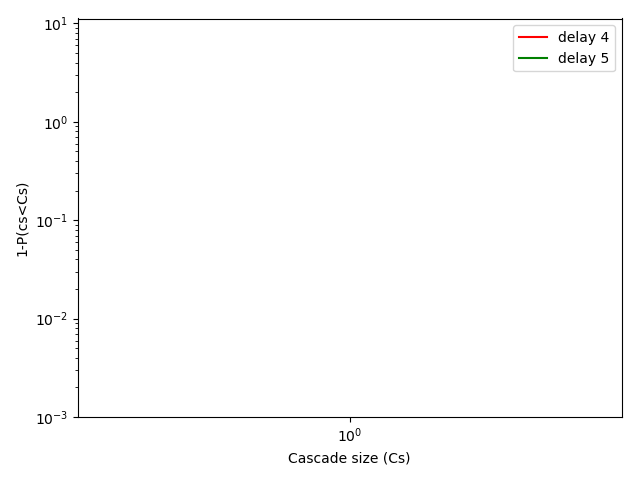
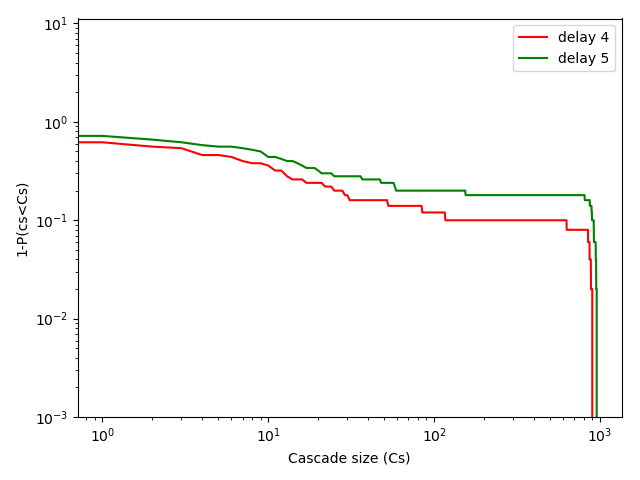
again slight change in cascades and rearrengement of images/results

diff --git a/cascades.py b/cascades.py
@@ -27,7 +27,8 @@ def check_infected_neighbours_recursive(graph: DiGraph, node_id, already_conside
     for node_i in available:
         node_new = graph.nodes[node_i]
         if node_new['first_defaulted_at'] > node['first_defaulted_at'] and \
-                node_id in node_new['all_connected_nodes']:
+                node_id in node_new['all_connected_nodes'] and \
+                node_i not in already_considered_nodes:
             already_considered_nodes.append(node_new['id'])
             s += check_infected_neighbours_recursive(graph, node_new['id'], already_considered_nodes)
             s += 1
@@ -449,5 +450,13 @@ def plot_sectorial_cascades(sizes,ylim = None,title='Title',
     plt.tight_layout()
     plt.savefig(filename)
     plt.show()
-            
-        
+    
+ 
+'''           
+def run_and_save(graph: DiGraph, repetitions=5, max_iterations=100,
+                            mu=0.2, beta=0.6,
+                            policy=ReconnectionPolicy.RANDOM, delay=[4, 6],
+                            weight_transfer=False,
+                            filename='results/sn'):    
+    
+'''

diff --git a/cascades_main.py b/cascades_main.py
@@ -3,10 +3,10 @@ import pickle
 import time
 
 start = time.time()
-g = pickle.load(open('ER/graph_er.pickle', 'rb'))
+g = pickle.load(open('BA/graph_ba.pickle', 'rb'))
 
-sizes = cascades_sizes_multiple(g,mu=0.2,beta=0.4,delays=[4,5],policy='SOFT',repetitions=30,
-                                filename='ER/results/cascades/')
+sizes = cascades_sizes_multiple(g,mu=0.2,beta=0.4,delays=[3,4,5],policy='SOFT',repetitions=20,
+                                filename='BA/results/cascades/')
 
 
 end = time.time()
@@ -15,5 +15,5 @@ print(end-start)
 
 print(sizes)
 
-plot_cascade_sizes(sizes,delays=[4,5],ylim = 10e-4,colors=['r','g','b','k'],
-                   filename='ER/images/cascades/compa2_SOFT.png')
+plot_cascade_sizes(sizes,delays=[3,4,5],ylim = 10e-4,colors=['r','g','b','k'],
+                   filename='BA/images/cascades/compa2_SOFT.png')
